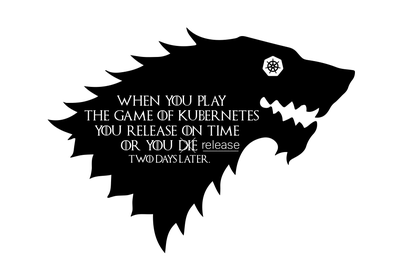
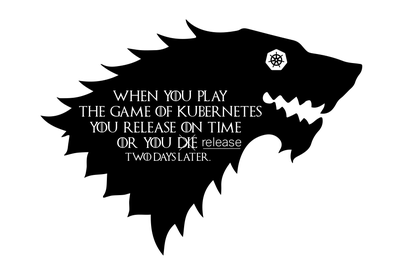
feat: set the keyline width per release
One width does not suit every logo. At the default 0.04 the band swallowed the
notches between v1.15's fur points and the direwolf came out round-shouldered,
losing the jagged silhouette that is the whole shape. The other three carry the
fuller band fine.

logos.tsv now accepts `keyline:<fraction>` alongside plain `keyline`, and v1.15
runs at 0.015. That is about the thickness of the band it had before the offset
was reworked, but round and anti-aliased rather than square and stair-stepped,
so it keeps the spikes and still looks clean.

Bad values are rejected up front: a non-numeric width, one outside 0 to 0.5, or
an unknown treatment all stop the run with a message naming the release.

diff --git a/scripts/gen_gallery.py b/scripts/gen_gallery.py
@@ -32,9 +32,25 @@ def load_rows():
         r["file"] = r["file"].strip()
         r["codename"] = r["codename"].strip()
         r["treatment"] = (r.get("treatment") or "").strip()
-        if r["treatment"] not in ("", "keyline", "reviewed"):
-            sys.exit(f"{r['version']}: unknown treatment {r['treatment']!r} "
-                     f"(expected empty, 'keyline' or 'reviewed')")
+        r["keyline"] = None
+        t = r["treatment"]
+        if t.startswith("keyline"):
+            # `keyline` uses the default width, `keyline:0.015` overrides it.
+            # Spiky silhouettes need a thinner band: at the default 0.04 the
+            # notches between v1.15's fur points fill in and the wolf goes round.
+            _, _, arg = t.partition(":")
+            if arg:
+                try:
+                    r["keyline"] = float(arg)
+                except ValueError:
+                    sys.exit(f"{r['version']}: keyline width {arg!r} is not a number")
+                if not 0 < r["keyline"] < 0.5:
+                    sys.exit(f"{r['version']}: keyline width {arg} is out of range "
+                             f"(expected a fraction between 0 and 0.5)")
+            r["treatment"] = "keyline"
+        elif t not in ("", "reviewed"):
+            sys.exit(f"{r['version']}: unknown treatment {t!r} (expected empty, "
+                     f"'reviewed', 'keyline' or 'keyline:<fraction>')")
         src = ROOT / r["file"]
         if not src.exists():
             sys.exit(f"missing image: {r['file']} (referenced by {r['version']})")
@@ -235,7 +251,8 @@ def main():
     ap.add_argument("--keep-background", action="store_true",
                     help="do not touch thumbnail backgrounds at all")
     ap.add_argument("--keyline", type=float, default=0.04,
-                    help="die-cut band width as a fraction of the logo's longest side")
+                    help="default die-cut band width, as a fraction of the logo's "
+                         "longest side; logos.tsv can override it per release")
     args = ap.parse_args()
 
     rows = load_rows()
@@ -247,7 +264,7 @@ def main():
         rebuilt, was_stripped = make_thumb(
             ROOT / r["file"], dst, args.width,
             strip=not args.keep_background,
-            keyline=args.keyline if want_keyline else 0.0)
+            keyline=(r["keyline"] or args.keyline) if want_keyline else 0.0)
         if not rebuilt:
             continue
         built += 1

diff --git a/AGENTS.md b/AGENTS.md
@@ -204,10 +204,20 @@ visible on v1.31:
   wide. Building it at full resolution with a soft threshold, then downscaling,
   gives a clean anti-aliased edge.
 
-Width is `--keyline`, a fraction of the logo's longest side, default 0.04. That
-lands near the 5.5% of the reference sticker this was modelled on. The canvas is
-padded first so the band is not clipped where artwork reaches the edge, as
-v1.13's wingtips do. SVG sources are rendered at 4x before the band is added.
+Width is a fraction of the logo's longest side. The default is 0.04, near the
+5.5% of the reference sticker this was modelled on, and `--keyline` changes it
+for a whole run.
+
+**The right width depends on the artwork, so it is set per release** as
+`keyline:<fraction>`. A spiky silhouette needs a thin band: at 0.04 the notches
+between v1.15's fur points fill in and the direwolf goes round-shouldered, so it
+runs at 0.015. Simpler shapes carry the fuller band well, so v1.13, v1.17 and
+v1.31 stay on the default. When adding one, render a few widths and compare
+before picking.
+
+The canvas is padded first so the band is not clipped where artwork reaches the
+edge, as v1.13's wingtips do. SVG sources are rendered at 4x before the band is
+added.
 
 This is a judgement call, not a measurement. v1.13 is 100% low-contrast against
 GitHub's dark canvas and v1.33 is 95.5%, yet v1.33 reads fine because its lit
@@ -220,7 +230,8 @@ The `treatment` column in `logos.tsv`:
 | Value | Meaning |
 |---|---|
 | *(empty)* | Automatic handling. The script warns if the result is mostly near-black. |
-| `keyline` | Automatic handling plus the white band. Currently v1.13, v1.15, v1.17 and v1.31. |
+| `keyline` | Automatic handling plus the white band at the default width. Currently v1.13, v1.17 and v1.31. |
+| `keyline:<fraction>` | The same, with the band width overridden. Currently v1.15 at `keyline:0.015`. |
 | `reviewed` | Automatic handling; the warning has been looked at and dismissed. Currently v1.12, v1.14, v1.24, v1.33. |
 
 When a new logo lands, run the script and read what it prints. If it warns, open

diff --git a/CONTRIBUTING.md b/CONTRIBUTING.md
@@ -23,7 +23,8 @@ Row order in the TSV does not matter, since the script sorts newest-first.
 If the script warns that the logo is mostly near-black, open its thumbnail on a
 dark background. Near-black line art can disappear on GitHub's dark theme; set
 the fourth field to `keyline` to give it a white die-cut band, or to `reviewed`
-if it reads fine as is.
+if it reads fine as is. If the band swallows fine detail in the silhouette, thin
+it with `keyline:0.015` or similar.
 
 Generating thumbnails needs Pillow, plus `rsvg-convert` (`brew install librsvg`)
 if the logo is an SVG.
